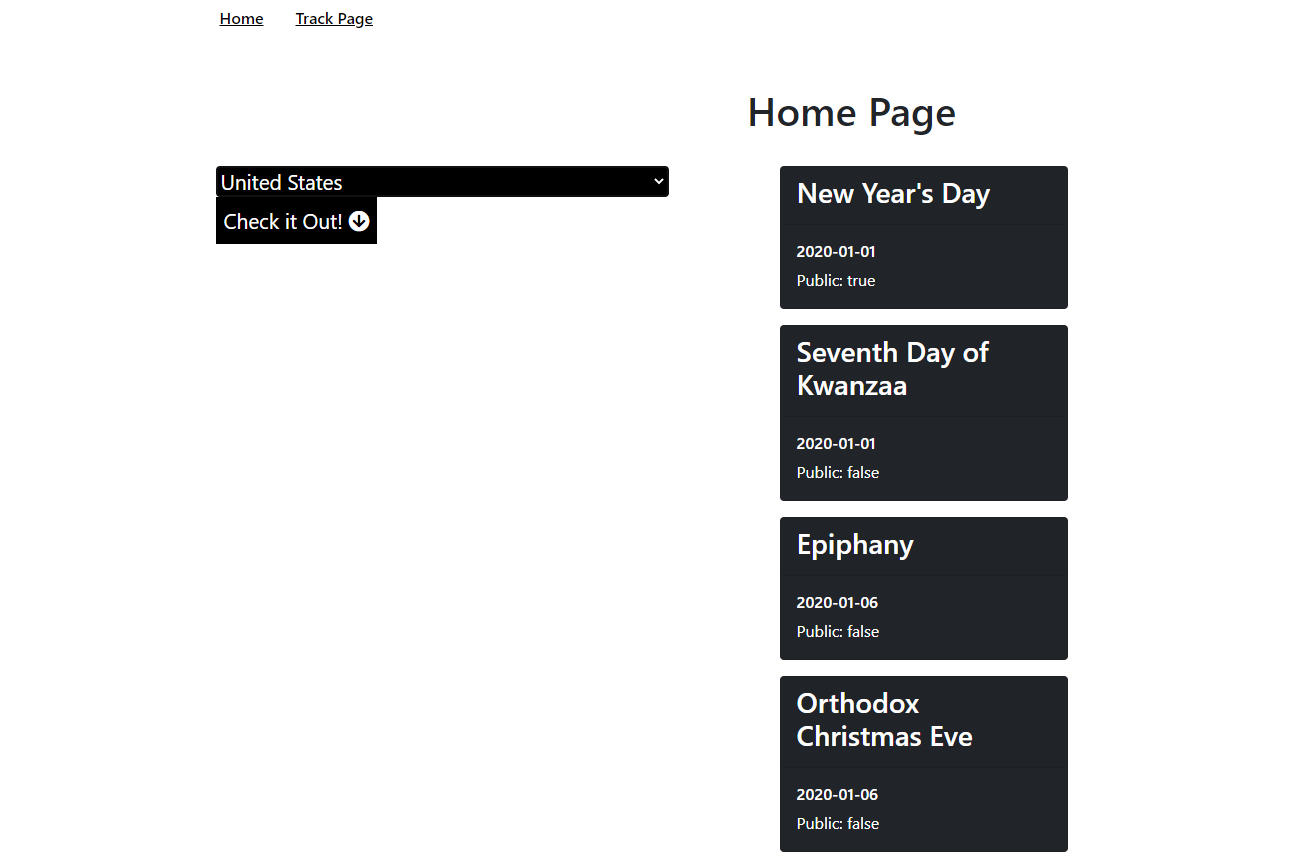
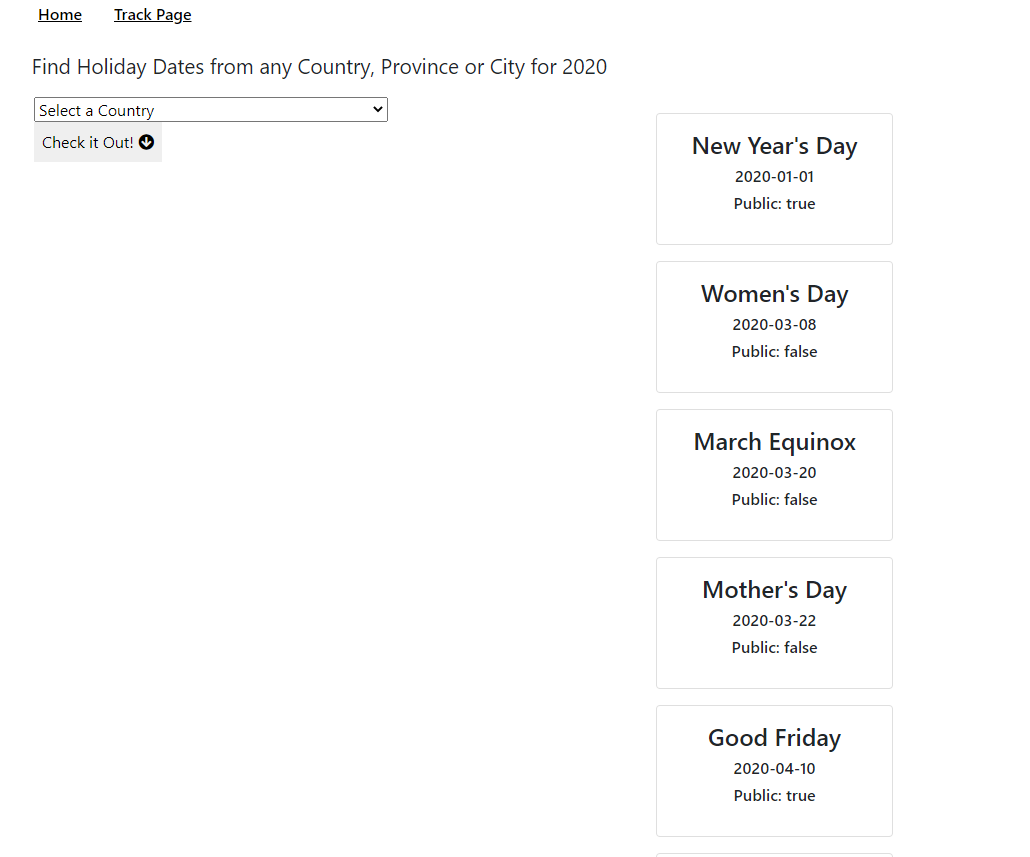
Update interface and README.md

diff --git a/app.js b/app.js
@@ -34,7 +34,7 @@ app.get('/', async (req, res) => {
 
         const holidays = response.data.holidays
         res.render('index', {
-            heading: 'Home Page',
+            heading: 'Find Holiday Dates from any Country, Province or City for 2020',
             title: "Home - Holiday Listing",
             countryDetails: _,
             holidayDisplay: holidays

diff --git a/public/style.css b/public/style.css
@@ -4,6 +4,11 @@
     font-weight: 600;
 }
 
+.header {
+    font-size: 1.3rem;
+    margin-left: 2.1rem;
+}
+
 
 
 

diff --git a/README.md b/README.md
@@ -2,6 +2,8 @@
 
 A simple API website that fetches public and private holidays of countries, regions and provinces. It has a page that tracks the countries and also the time they were searched.
 
+[Live Demo](doyinsola-holiday-api.herokuapp.com)
+
 ![screenshot](public\holidays.PNG)
 
 
